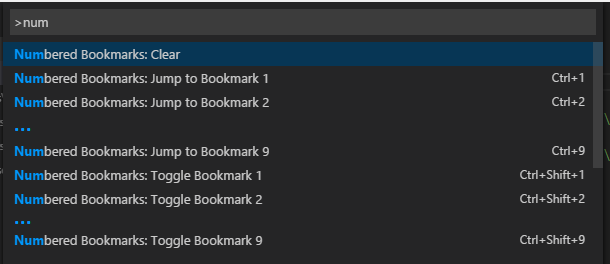
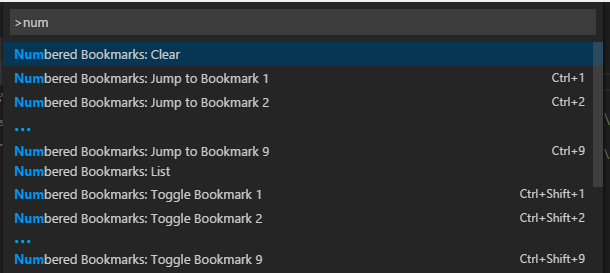
Closes #1

diff --git a/extension.ts b/extension.ts
@@ -6,13 +6,13 @@ import fs = require('fs');
 
 // this method is called when vs code is activated
 export function activate(context: vscode.ExtensionContext) {
-    
+
     const MAX_BOOKMARKS = 10;
-    const NO_BOOKMARK_DEFINED = -1; 
+    const NO_BOOKMARK_DEFINED = -1;
 
     class Bookmark {
         fsPath: string;
-        bookmarks: number[];
+        bookmarks: number[]; 
 
         constructor(uri: vscode.Uri) {
             this.fsPath = uri.fsPath;
@@ -20,11 +20,11 @@ export function activate(context: vscode.ExtensionContext) {
             this.bookmarks.length = MAX_BOOKMARKS;
             this.resetBookmarks();
         }
-        
+
         resetBookmarks() {
             for (var index = 0; index < MAX_BOOKMARKS; index++) {
                 this.bookmarks[index] = NO_BOOKMARK_DEFINED;
-            }    
+            }
         }
     }
 
@@ -64,15 +64,15 @@ export function activate(context: vscode.ExtensionContext) {
 	
     // load pre-saved bookmarks
     let didLoadBookmarks: boolean = loadWorkspaceState();
-	
-    
+
+
     let bookmarkDecorationType: vscode.TextEditorDecorationType[] = [];
     bookmarkDecorationType.length = MAX_BOOKMARKS;
     for (var index = 0; index < MAX_BOOKMARKS; index++) {
         let pathIcon: string = context.asAbsolutePath('images\\bookmark' + index + '.png');
         bookmarkDecorationType[index] = vscode.window.createTextEditorDecorationType({
             gutterIconPath: pathIcon
-        });        
+        });
     }
     
 
@@ -116,7 +116,7 @@ export function activate(context: vscode.ExtensionContext) {
         timeout = setTimeout(updateDecorations, 100);
     }
 
-    function getDecoration(n: number): vscode.TextEditorDecorationType {        
+    function getDecoration(n: number): vscode.TextEditorDecorationType {
         return bookmarkDecorationType[n];
     }
 	
@@ -185,35 +185,35 @@ export function activate(context: vscode.ExtensionContext) {
     vscode.commands.registerCommand('numberedBookmarks.jumpToBookmark1', () => {
         jumpToBookmark(1);
     });
-    
+
     vscode.commands.registerCommand('numberedBookmarks.jumpToBookmark2', () => {
         jumpToBookmark(2);
     });
-    
+
     vscode.commands.registerCommand('numberedBookmarks.jumpToBookmark3', () => {
         jumpToBookmark(3);
     });
-    
+
     vscode.commands.registerCommand('numberedBookmarks.jumpToBookmark4', () => {
         jumpToBookmark(4);
     });
-    
+
     vscode.commands.registerCommand('numberedBookmarks.jumpToBookmark5', () => {
         jumpToBookmark(5);
     });
-    
+
     vscode.commands.registerCommand('numberedBookmarks.jumpToBookmark6', () => {
         jumpToBookmark(6);
     });
-    
+
     vscode.commands.registerCommand('numberedBookmarks.jumpToBookmark7', () => {
         jumpToBookmark(7);
     });
-    
+
     vscode.commands.registerCommand('numberedBookmarks.jumpToBookmark8', () => {
         jumpToBookmark(8);
     });
-    
+
     vscode.commands.registerCommand('numberedBookmarks.jumpToBookmark9', () => {
         jumpToBookmark(9);
     });
@@ -221,11 +221,56 @@ export function activate(context: vscode.ExtensionContext) {
     vscode.commands.registerCommand('numberedBookmarks.clear', () => {
         for (var index = 0; index < MAX_BOOKMARKS; index++) {
             activeBookmark.bookmarks[index] = NO_BOOKMARK_DEFINED;
-        }    
+        }
 
         saveWorkspaceState();
         updateDecorations();
     });
+
+    vscode.commands.registerCommand('numberedBookmarks.list', () => {
+        // no bookmark
+        if (activeBookmark.bookmarks.length == 0) {
+            vscode.window.showInformationMessage("No Bookmark found");
+            return;
+        }
+
+        // push the items
+        let items: vscode.QuickPickItem[] = [];
+        for (var index = 0; index < activeBookmark.bookmarks.length; index++) {
+            let element = activeBookmark.bookmarks[index];
+            if (element != -1) {
+                let lineText = vscode.window.activeTextEditor.document.lineAt(element).text;
+                element++;
+                items.push({ label: element.toString(), description: lineText });
+            }
+        }
+		
+        // pick one
+        let currentLine: number = vscode.window.activeTextEditor.selection.active.line + 1;
+        let options = <vscode.QuickPickOptions>{
+            placeHolder: 'Type a line number or a piece of code to navigate to',
+            matchOnDescription: true,
+            matchOnDetail: true,
+            onDidSelectItem: item => {
+                revealLine(parseInt(item.label) - 1);
+            }
+        };
+
+        vscode.window.showQuickPick(items, options).then(selection => {
+            if (typeof selection == 'undefined') {
+                revealLine(currentLine - 1);
+                return;
+            }
+            revealLine(parseInt(selection.label) - 1);
+        });
+    });
+
+    function revealLine(line: number) {
+        var newSe = new vscode.Selection(line, 0, line, 0);
+        vscode.window.activeTextEditor.selection = newSe;
+        vscode.window.activeTextEditor.revealRange(newSe, vscode.TextEditorRevealType.InCenter);
+    }
+
 
 
 
@@ -264,7 +309,7 @@ export function activate(context: vscode.ExtensionContext) {
 
         // there is another bookmark already set for this line?
         let index: number = activeBookmark.bookmarks.indexOf(line);
-		if (index >= 0) {
+        if (index >= 0) {
             clearBookmark(index);
         }
         
@@ -292,10 +337,7 @@ export function activate(context: vscode.ExtensionContext) {
             return;
         }				
 		
-        // go to found line
-        var newSe = new vscode.Selection(activeBookmark.bookmarks[n], 0, activeBookmark.bookmarks[n], 0);
-        vscode.window.activeTextEditor.selection = newSe;
-        vscode.window.activeTextEditor.revealRange(newSe, vscode.TextEditorRevealType.InCenter)
+        revealLine(activeBookmark.bookmarks[n]);
     }
 }
 

diff --git a/README.md b/README.md
@@ -1,6 +1,9 @@
 # Functionality
 
 Mark lines in the editor and easily jump to them. _In Delphi style._
+# Installation
+
+Press `F1` in VSCode, type `ext install` and then look for `Numbered Bookmarks`.
 
 # Usage
 
@@ -8,17 +11,26 @@ Mark lines in the editor and easily jump to them. _In Delphi style._
 
 * **Numbered Bookmarks: Toggle Bookmark _'number'_** Mark/unmark the current line with a numbered bookmark
 * **Numbered Bookmarks: Jump to Bookmark _'number'_** Move the cursor to the numbered bookmark
+* **Numbered Bookmarks: List** List all bookmarks from the current file
 * **Numbered Bookmarks: Clear** remove all bookmarks from the current file
 
 > Both **Toggle** and **Jump to Bookmark** commands are numbered from 1 to 9
 
 ![Commands](images/numbered-bookmarks-commands.png)
 
-### Toggle Bookmark _'number'_
+### Numbered Bookmarks: Toggle Bookmark _'number'_
 
 You can easily Mark/Unmark bookmarks on any line. Works even for wrapped lines.
 
 ![Toggle](images/numbered-bookmarks-toggle.png)
+
+> _new in version 0.2.0_  
+
+### Numbered Bookmarks: List
+
+List all bookmarks from the current file and easily navigate to any one. It shows you the line contents and temporarily scroll to that line.
+
+![List](images/numbered-bookmarks-list.gif)
 
 ## Available settings
 
@@ -33,17 +45,15 @@ The bookmarks are saved _per session_ for the project that you are using. You do
 
 It also works even if you only _preview_ a file (simple click in TreeView). You can put bookmarks in any file and when you preview it again, the bookmarks will be there.
 
-# TODO List
-
-Here are some ideas that will be added soon:
-
-* **Preview bookmarked lines:** Create a new command (**Numbered Bookmarks: List**) that will show all bookmarked lines, with its content, so you easily identify which bookmark you would want to go.
-
 # Known Issues
 
 - Hiting `Enter` in lines with bookmarks, temporarily also moves the bookmarks, but when you stop typing, the bookmark is correctly presented on the original line.
 
 # Changelog
+
+## Version 0.2.0
+
+* **New Command:** List all bookmarks from the current file
 
 ## Version 0.1.0
 
